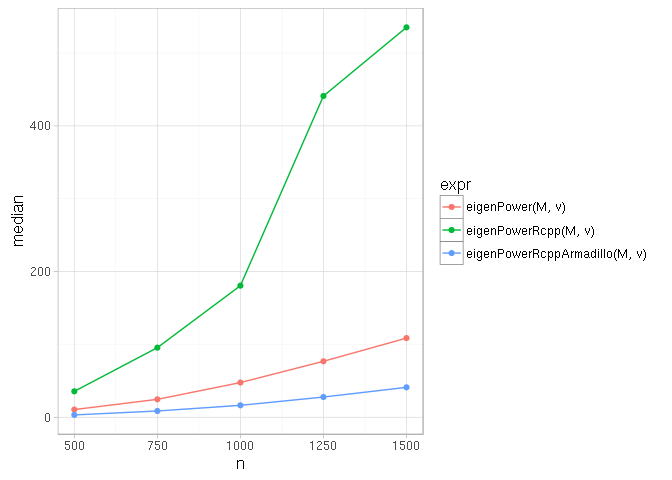
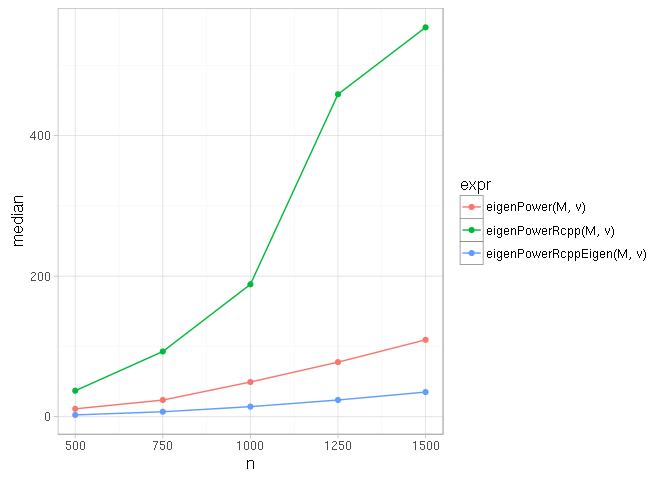
up README

diff --git a/README.md b/README.md
@@ -71,4 +71,8 @@ source(f)
 print(p)
 ```
 
-![](inst/figures/becnh1-1.png)<!-- -->
+![](doc/figures/becnh1-1.png)<!-- -->
+
+The same figure from the previous version of `cpca`, where both RcppEigen and RcppArmadillo version of `eigenPower` function were implemented.
+
+![](doc/images/becnh1-1-v1.png)
